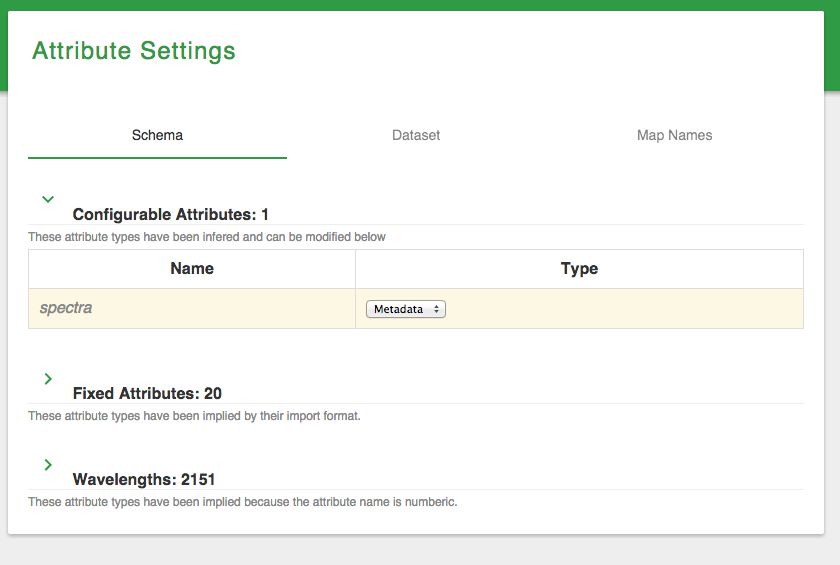
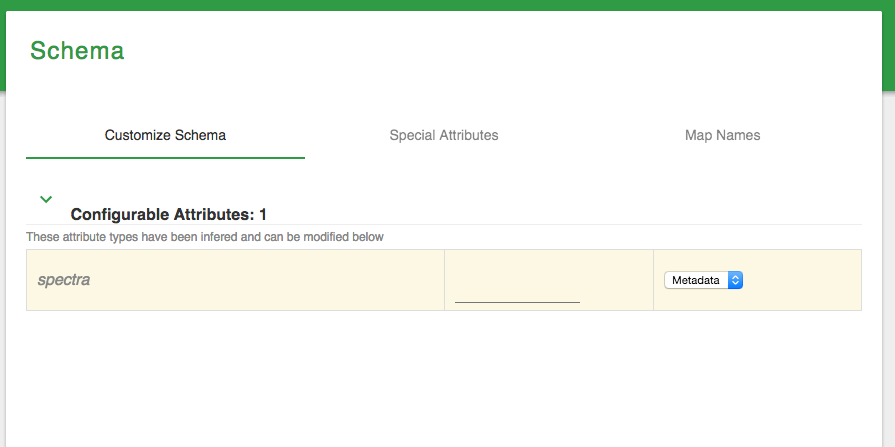
quick fix for editor, more updates to tutorial

diff --git a/tutorial/walkthrough/index.html b/tutorial/walkthrough/index.html
@@ -196,37 +196,53 @@
 					</section>
 					<section>
 						<h4>Configure Joinable Metadata</h4>
-						<p>For metadata sheets, click the 'Joinable Metadata File' checkbox.</p>
+						<p>For metadata sheets, click the 'Pencil' icon then click the 'Joinable Metadata' checkbox.</p>
 
 						<table style="width:100%; text-align:center">
 							<tr>
-								<td>
-									<img src="ss/inspect1.png"><br />
-									Before configuration
+								<td style="vertical-align: top">
+									<div>
+										<img src="ss/inspect1.png"><br />
+										Before configuration
+									</div>
+									<div>
+										<img src="ss/inspect1_5.png"><br />
+										After configuration
+									</div>
 								</td>
 								<td>
 									<img src="ss/inspect2.png"><br />
-									After configuration
+									Configure Metadata
 								</td>
 							</tr>
 						</table>
 					</section>
 
 					<section>
-						Metadata can be joined by</p>
+						<p>Metadata can be joined by</p>
 						<ul>
-							<li><b>Attribute Name:</b> Using 'Join On' select the attribute that should be used as a unique id to join the metadata with the data.</li>
-							<li><b>Filename:</b> If you have one spectrum per file you can match the selected attribute to a filename.  The 'exact match' option lets specify if the filename should be loosely matched or exactly matched to the attribute value.</li>
-							<li><b>Sheetname:</b> Similar to filename, but lets you match the selected attribute to a sheetname inside a excel file.</li>
+							<li><b style="color:orange">Attribute Name:</b> Using 'Join On' select the attribute that should be used as a unique id to join the metadata with the data.</li>
+							<li><b style="color:orange">Filename:</b> If you have one spectrum per file you can match the selected attribute to a filename.  The 'exact match' option lets specify if the filename should be loosely matched or exactly matched to the attribute value.</li>
+							<li><b style="color:orange">Sheetname:</b> Similar to filename, but lets you match the selected attribute to a sheetname inside a excel file.</li>
 						</ul>
 					</section>
 
 					<section>
-						<p>Inspect your datasheets to make sure they have been interpreted correctly.  You can click the 'Configure Attributes' button or 'Attribute Settings' on the left hand navigation to configure your datasets schema if any of your attribute types are incorrect.</p>
+						<p>Inspect your datasheets to make sure they have been interpreted correctly.  You can click the 'Pencil' icon then click the 'Arrow' icon next to the 'Spectra' label.  You will be able to visibly inspect each spectra parsed in the file.</p>
 						<img src="ss/inspect3.png">
 					</section>
+
 					<section>
-						Technical note.  At this point the importer hasn’t really uploaded anything.  The app is using the HTML5 File Reader API to read the file(s) directly into your browser and parse them on your client.  This saves users having to upload all of their data on to the server before they can manipulate it.   Actual file upload happens later on.
+						<p>Datasheet Types.  Currently the following file extensions will be parsed as datasheets.</p>
+						<ul>
+							<li>.xls</li>
+							<li>.xlsx</li>
+							<li>.csv</li>
+							<li>.tsv (Tab Separated Value)</li>
+							<li>.spectra (parsed as .tsv)</li>
+							<li>.zip<span style="color:orange">*</span></li>
+						</ul>
+						<p><span style="color:orange">*</span>Zip files will be extracted on the server.  Any files contained within the zip file that have datasheet extension will be parsed.</p>
 					</section>
 				</section>
 

diff --git a/spectra-importer/dist/editor/elements.html b/spectra-importer/dist/editor/elements.html
@@ -25432,11 +25432,11 @@ subject to an additional IP rights grant found at http://polymer.github.io/PATEN
                                     </select>
                                 </td>
                             </tr>
-                        </table></template></core-list></div>
-                    </core-collapse></template>
-                
-            
-        
+                        </table>
+                    </template>
+                </core-list>
+            </div>
+        </core-collapse>
 
         <h4>
             <paper-icon-button icon="hardware:{{showFixed ? &apos;keyboard-arrow-down&apos; : &apos;keyboard-arrow-right&apos;}}" on-tap="{{_toggleFixed}}">
@@ -25465,10 +25465,10 @@ subject to an additional IP rights grant found at http://polymer.github.io/PATEN
                                     {{model.type}}<span class="type-flag">{{model.flag}}</span>
                                 </td>
                             </tr>
-                        </table></template></core-list></div>
-                    
-                
-            
+                        </table>
+                    </template>
+                </core-list>
+            </div>
 
             <div style="padding:10px;font-size:12px">
                 <div>
@@ -25496,7 +25496,7 @@ subject to an additional IP rights grant found at http://polymer.github.io/PATEN
         </core-collapse>
 
 
-    
+    </template>
     <script>
         Polymer('esis-attribute-editor', {
 

diff --git a/spectra-importer/app/editor/elements/ui/esis-attribute-editor.html b/spectra-importer/app/editor/elements/ui/esis-attribute-editor.html
@@ -106,7 +106,7 @@
                                     </select>
                                 </td>
                             </tr>
-                        </div>
+                        </table>
                     </template>
                 </core-list>
             </div>
@@ -147,7 +147,7 @@
                                     {{model.type}}<span class="type-flag">{{model.flag}}</span>
                                 </td>
                             </tr>
-                        </div>
+                        </table>
                     </template>
                 </core-list>
             </div>
